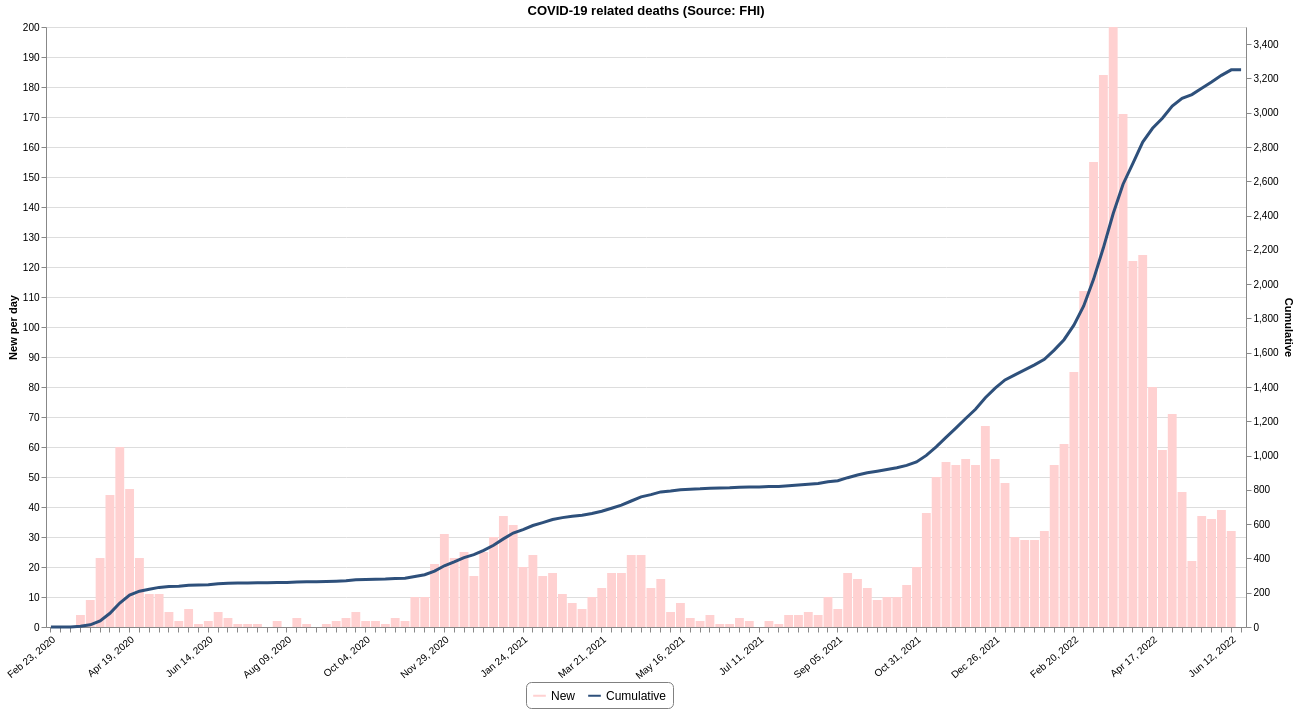
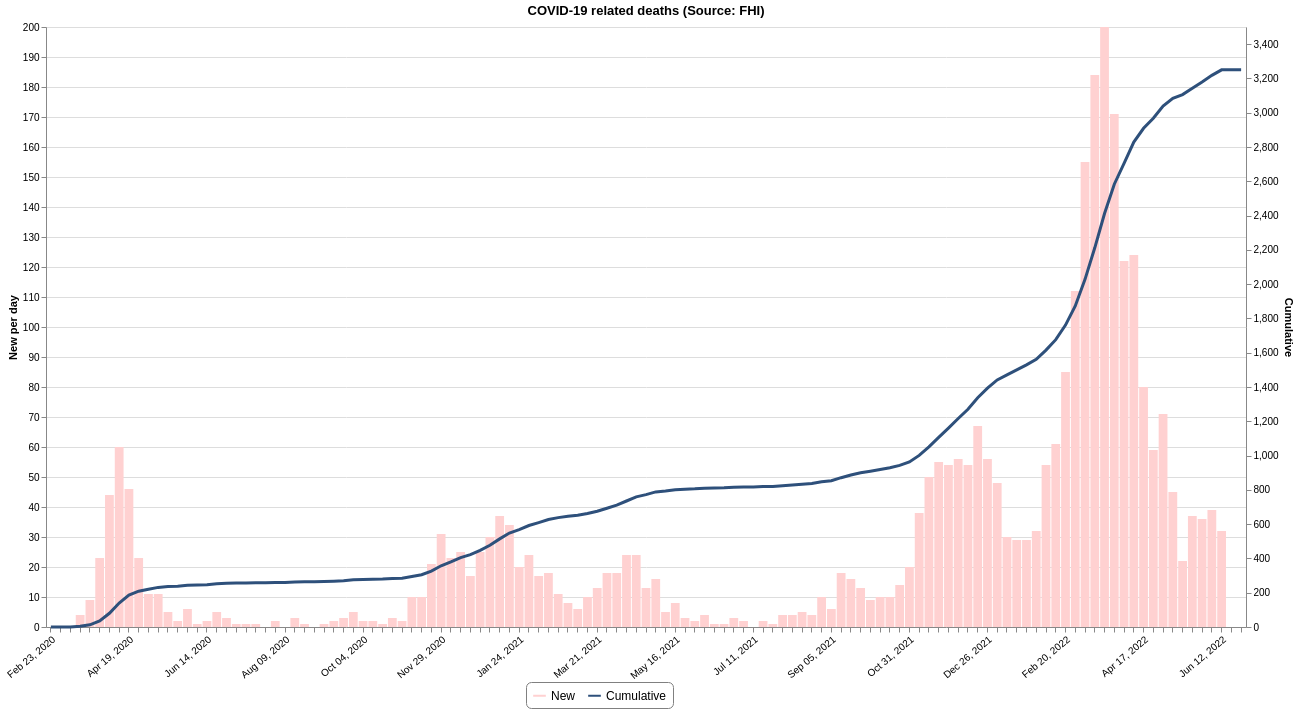
Updated 2022-06-21 13:23

diff --git a/README.md b/README.md
@@ -10,11 +10,11 @@ This repository contains datasets of daily time-series data related to COVID-19 
 <!-- table starts -->
 |Data|Source|Last updated|Download|Preview|
 | :--- | :--- | :--- | :--- | :--- |
-|[Confirmed](#confirmedcsv)|FHI / MSIS|2022-06-21 00:20:48+02:00|[<center>csv</center>](https://raw.githubusercontent.com/frefrik/covid19norge-data/main/data/confirmed.csv)|[<center>preview</center>](data/confirmed.csv)|
-|[Dead](#deadcsv)|FHI|2022-06-15 13:20:58+02:00|[<center>csv</center>](https://raw.githubusercontent.com/frefrik/covid19norge-data/main/data/dead.csv)|[<center>preview</center>](data/dead.csv)|
+|[Confirmed](#confirmedcsv)|FHI / MSIS|2022-06-21 13:23:40+02:00|[<center>csv</center>](https://raw.githubusercontent.com/frefrik/covid19norge-data/main/data/confirmed.csv)|[<center>preview</center>](data/confirmed.csv)|
+|[Dead](#deadcsv)|FHI|2022-06-21 13:23:42+02:00|[<center>csv</center>](https://raw.githubusercontent.com/frefrik/covid19norge-data/main/data/dead.csv)|[<center>preview</center>](data/dead.csv)|
 |[Hospitalized](#hospitalizedcsv)|Helsedirektoratet|2022-03-22 12:50:44+01:00|[<center>csv</center>](https://raw.githubusercontent.com/frefrik/covid19norge-data/main/data/hospitalized.csv)|[<center>preview</center>](data/hospitalized.csv)|
 |[Tested](#testedcsv)|FHI|2022-06-20 16:20:49+02:00|[<center>csv</center>](https://raw.githubusercontent.com/frefrik/covid19norge-data/main/data/tested.csv)|[<center>preview</center>](data/tested.csv)|
-|[Tested Lab](#tested_labcsv)|FHI|2022-06-20 16:10:43+02:00|[<center>csv</center>](https://raw.githubusercontent.com/frefrik/covid19norge-data/main/data/tested_lab.csv)|[<center>preview</center>](data/tested_lab.csv)|
+|[Tested Lab](#tested_labcsv)|FHI|2022-06-21 13:23:37+02:00|[<center>csv</center>](https://raw.githubusercontent.com/frefrik/covid19norge-data/main/data/tested_lab.csv)|[<center>preview</center>](data/tested_lab.csv)|
 |[Transport](#transportcsv)|FHI|2021-09-24 23:10:46+02:00|[<center>csv</center>](https://raw.githubusercontent.com/frefrik/covid19norge-data/main/data/transport.csv)|[<center>preview</center>](data/transport.csv)|
 |[Vaccine Doses](#vaccine_dosescsv)|FHI|2022-06-17 13:20:54+02:00|[<center>csv</center>](https://raw.githubusercontent.com/frefrik/covid19norge-data/main/data/vaccine_doses.csv)|[<center>preview</center>](data/vaccine_doses.csv)|
 |[Smittestopp](#smittestoppcsv)|FHI|2022-04-06 16:20:53+02:00|[<center>csv</center>](https://raw.githubusercontent.com/frefrik/covid19norge-data/main/data/smittestopp.csv)|[<center>preview</center>](data/smittestopp.csv)|
